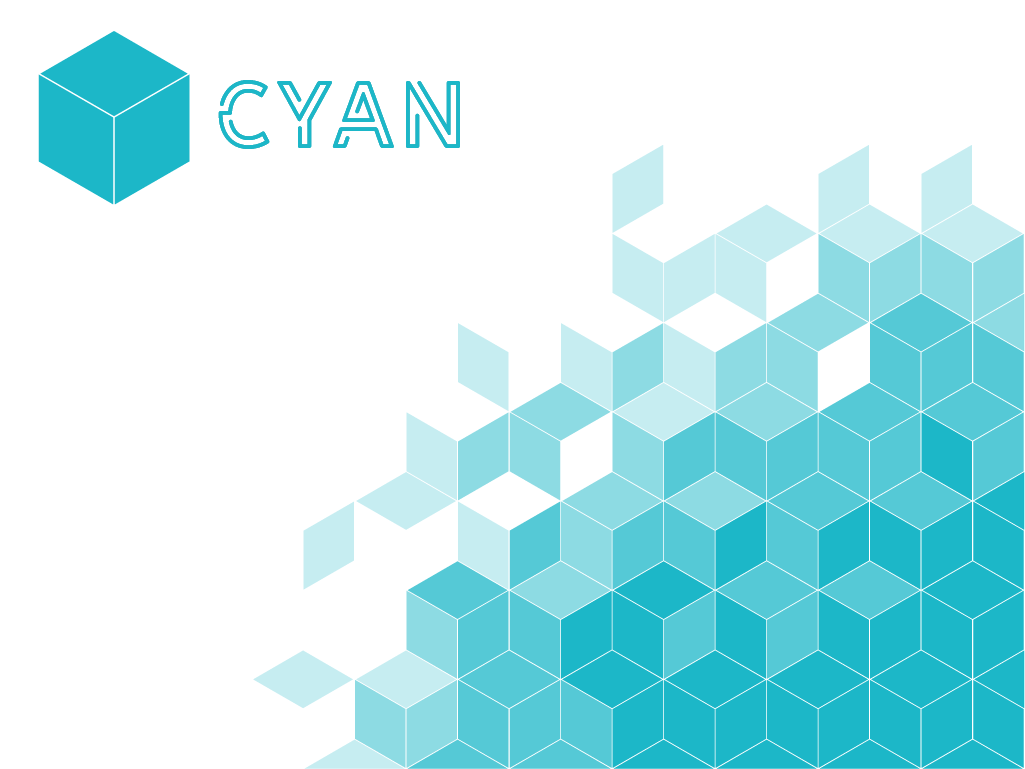
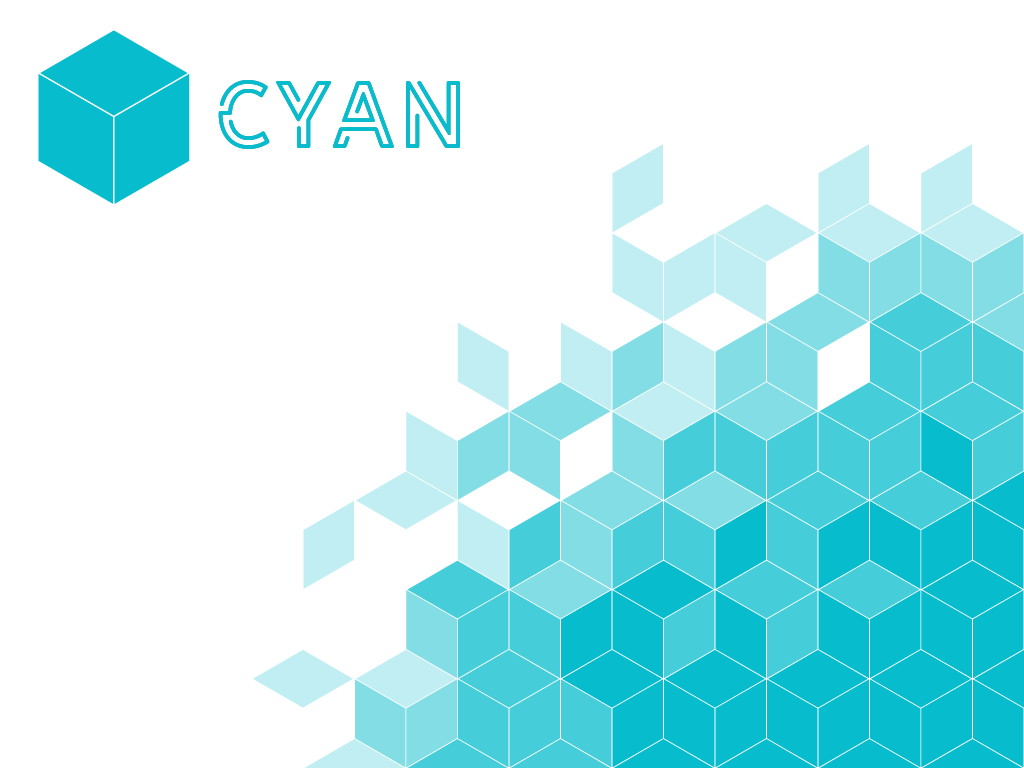
v.1.0.2

diff --git a/de.leonmarcelhd.colorful.teamspeak/TeamSpeak.css b/de.leonmarcelhd.colorful.teamspeak/TeamSpeak.css
@@ -1,35 +1,18 @@
-
-:root { /* custom value*/
-    /* accent color in hsl used to compute shades automatically */
-    /* default: 36, 94%, 48% */
-    --hue: 36;
-    --saturation: 94%;
-    --lightness: 48%;
-}
-
-:root { /* theme custom values */
-    --lightness-dark: calc(var(--lightness) - 8%);
-    --lightness-really-dark: calc(var(--lightness) - 30%);
-    --custom-color-light-grey: #2b3346;
-    --custom-color-dark-grey: #1c2538;
+:root {
     --custom-color-accent-really-dark: #2b2b2b;
-    --custom-color-off-white: #e0e0e0;
-    --custom-color-accent-light: #1488FA;
-    --custom-color-accent-dark: #8AC5FC;
-    --custom-color-slider1: #16bcfb;
-    --custom-color-slider2: #fa17ca;
+    --custom-color-accent-light: #16BCFB;
+    --custom-color-accent-dark: #1488FA;
+    --custom-color-slider1: #16BCFB;
+    --custom-color-slider2: #fb16c9;
     --custom-color-secondary-text: #bebebe;
-    --custom-value-scrollbar-width: 4px;
+    --custom-value-scrollbar-width: 6px;
     --custom-value-font: 'Roboto Condensed', sans-serif;
     --custom-value-font-weight: 300;
-    --custom-color-chat-bubble-code: #141922;
-    --custom-color-channel-commander-light: rgb(255, 205, 29);
-    --custom-color-channel-commander-dark: #8d7007;
+    --custom-color-channel-commander-light: #FB842E;
+    --default-tsv-tint: #16BCFB;
 }
 
-:root { /* override everywhere (bad practice ) */
-    --tsv-icon-tint: var(#158BBB) !important;
-    --tsv-icon-tint2: var(#158BBB) !important;
+:root {
     --tsv-tint: var(--custom-color-accent-light) !important;
     --tsv-tint2: var(--custom-color-accent-light) !important;
     --tsv-separation-border: none !important;
@@ -37,26 +20,81 @@
     --tsv-button-bg: var(--custom-color-accent-dark) !important;
     --tsv-button-hover-bg: var(--custom-color-accent-light) !important;
     --ts-menu-action-color: var(--custom-color-accent-dark) !important;
-    --tsv-icon-folder: var(#158BBB) !important;
     --tsv-chat-remote-bg: transparent !important;
     --tsv-chat-self-bg: transparent !important;
     --tsv-chat-deleted-bg: transparent !important;
-    --tsv-chat-remote-font-color: var(--custom-color-off-white) !important;
-    --tsv-chat-self-font-color: var(--custom-color-off-white) !important;
+    --tsv-chat-remote-font-color: var(--tsv-chat-self-font-color) !important;
+    --tsv-chat-self-font-color: var(--tsv-chat-self-font-color) !important;
     --tsv-chat-deleted-font-color: #DA3250 !important;
     --tsv-chat-link-color: var(--custom-color-accent-light) !important;
     --ts-chat-system-highlight-text-color: var(--custom-color-accent-light) !important;
-    --tsv-content-branding-fancy-bg: var(--tsv-content-branding-bg) !important;
     --tsv-highlight-color: var(--custom-color-accent-light) !important;
 }
+
+
+/* SIDEBAR HEADER */
+
+.tsv-highlight.tsv-header {
+    background: linear-gradient(to bottom, transparent 0%, var(--custom-color-accent-dark) 33%, var(--custom-color-accent-light) 100%);
+}
+
+.tsv-highlight.tsv-header:before {
+    background: linear-gradient(to bottom, rgba(0, 0, 0, 0.300) 80%, var(--custom-color-accent-light) 100%);
+}
+
+
+/* HEX */
+
+.tsv-background-canvas.small,
+.tsv-background-canvas.fancy {
+    background: radial-gradient(circle, var(--custom-color-accent-light), var(--custom-color-accent-dark));
+}
+
+
+/* MULTISELECT */
+
+.ts-chat-room-event-selected {
+    --tsv-tint2: var(--custom-color-accent-light);
+    --tsv-shaded-bg-selection: var(--custom-color-accent-dark);
+    opacity: 1.5;
+}
+
+.ts-chat-room-event-detailed.ts-chat-room-event-selected .ts-chat-message-attachment-container .ts-chat-message-attachment-inner {
+    background: var(--custom-color-accent-dark);
+    border-color: var(--custom-color-accent-light);
+}
+
+
+/* SERVER EVENTS */
+
+.ts-server-events-list li.ts-event-cyan,
+.ts-server-logs-list li.ts-event-cyan {
+    border-left-color: var(--default-tsv-tint);
+}
+
+
+/* ACTIVITY TRIANGLE */
+
+.tsv-has-scrollbar .tsv-item-active-indicator {
+    right: 6px;
+}
+
+
+/* CHECKBOX */
 
 .ts-checkbox-checkmark-path {
     stroke: var(--custom-color-accent-light) !important;
 }
 
+
+/* READ STATUS */
+
 :is(.ts-chat-room-event-detailed, .ts-chat-room-event-compact) :is(.ts-chat-message-status, .ts-chat-message-status-detailed) path {
     stroke: var(--custom-color-accent-light) !important;
 }
+
+
+/* SCROLLBAR */
 
 ::-webkit-scrollbar-track {
     background: inherit;
@@ -71,11 +109,15 @@
     background-color: var(--custom-color-accent-light) !important;
 }
 
-.tsv-icon-contact-status-favorite, .tsv-icon-chat-room-status-favorite {
+
+/* FAV ICON */
+
+.tsv-icon-contact-status-favorite,
+.tsv-icon-chat-room-status-favorite {
     z-index: 10;
     left: 13px !important;
     top: 4px !important;
-    stroke: rgba(0,0,0,.7);
+    stroke: rgba(0, 0, 0, .7);
     stroke-width: 1.3px;
     transform: scale(.61);
 }
@@ -86,109 +128,35 @@
     top: 15px !important;
 }
 
-.tsv-icon-contact-status-favorite rect, .tsv-icon-chat-room-status-favorite rect {
+.tsv-icon-contact-status-favorite rect,
+.tsv-icon-chat-room-status-favorite rect {
     display: none;
 }
 
-.tsv-icon-contact-status-favorite path, .tsv-icon-chat-room-status-favorite path {
-    /* d: path('M19.4,13.5 21.4,17.6 25.9,18.2 22.7,21.4 23.4,25.9 19.4,23.8 15.4,25.9 16.2,21.4 12.9,18.2 17.4,17.6z') !important; */
-    d: path('m 11.566084,-4e-7 3.002256,8.02905 8.563828,0.3742 L 16.423837,13.73968 18.714317,22 11.566084,17.26904 4.4178507,22 6.7083312,13.73968 0,8.4032496 l 8.5638277,-0.3742 z') !important;
+.tsv-icon-contact-status-favorite path,
+.tsv-icon-chat-room-status-favorite path {
+    d: path('m 11.6 0 l 3 8 l 8.6 0.4 L 16.4 13.7 L 18.7 22 L 11.6 17.3 L 4.4 22 L 6.7 13.7 L 0 8.4 l 8.6 -0.4 z') !important;
     fill: var(--custom-color-accent-light);
+    stroke-width: 2px;
+    stroke: transparent;
 }
 
-.ts-vad-bar-overlay {
-    background: initial !important;
-}
 
-.ts-slider-track {
-	border-radius: 5px !important;
-}
+/* SLIDER */
 
-.ts-slider .ts-slider-track .ts-slider-knob .ts-slider-knob-bubble {
-    white-space: nowrap;
-}
-
-.ts-slider-track[style] {
-    background: linear-gradient(90deg, var(--custom-color-slider1), var(--custom-color-slider2));
-}
-
-.ts-slider:not(.ts-slider-compact) .ts-slider-segment::after {
-	content: "";
-	position: absolute;
-	width: calc(100% + 4px);
-	height: calc(100% + 4px);
-	top: -2px;
-	left: -2px;
-	border-radius: 5px;
-	border: 2px solid var(--custom-color-light-grey);
-}
-
-.ts-slider:not(.ts-slider-compact) .ts-slider-segment {
-    border-radius: 0;
-    margin: 0px !important;
-    border: 2px solid var(--custom-color-light-grey);
-}
-
-.ts-slider-compact .ts-slider-segment {
-	border-radius: 0;
-	margin: 0px !important;
-	--border: 2px solid var(--custom-color-light-grey);
-	border-bottom: var(--border);
-	border-top: var(--border);
-}
-
-.ts-slider-compact .ts-slider-segment:first-child {
-	border-left: var(--border);
-}
-
-.ts-slider-compact .ts-slider-segment:last-child {
-	border-right: var(--border);
-}
-
-.ts-slider-segment:first-child {
-	border-top-left-radius: 5px !important;
-	border-bottom-left-radius: 5px !important;
-}
-
-.ts-slider-segment:last-child {
-	border-top-right-radius: 5px !important;
-	border-bottom-right-radius: 5px !important;
-}
-.ts-slider-segment-value {
-    border-radius: 0px !important;
+.ts-slider-segment-value.ts-slider-segment-value-on {
+    background: linear-gradient(90deg, var(--custom-color-slider1), var(--custom-color-slider1)) border-box !important;
 }
 
 .ts-slider-segment-value.ts-slider-segment-value-off {
-    background: var(--custom-color-light-grey) !important;
-    transform: scale(1);
-    opacity: .8;
-    border: 2px solid transparent;
+    background: linear-gradient(90deg, var(--custom-color-slider2), var(--custom-color-slider2)) border-box !important;
 }
 
-.ts-slider-segment-value.ts-slider-segment-value-on {
-    background: transparent !important;
-}
 
-.tsv-activity-detail .tsv-segmented-control {
-    --tsv-bg: var(--custom-color-light-grey);
-}
+/* CHAT INPUT */
 
 .ts-chat-input-container {
-    background: var(--custom-color-dark-grey) !important;
     border: none !important;
-}
-
-.ts-chat-input-container-content {
-    --tsv-bg: var(--custom-color-dark-grey);
-}
-
-.tsv-activity-primary .ts-chat-input-container {
-    background: var(--custom-color-dark-grey) !important;
-}
-
-.tsv-activity-primary .ts-chat-input-container-content {
-    --tsv-bg: var(--custom-color-dark-grey);
-    --tsv-shaded-bg: var(--custom-color-dark-grey);
 }
 
 .ts-chat-input-container:is(:hover, .focus)::after {
@@ -199,7 +167,14 @@
     box-shadow: inset 0 0 0 1px var(--custom-color-accent-light);
     pointer-events: none;
     z-index: 20;
-    border-radius: var(--tsv-border-radius);
+    border-radius: var(--tsv-border-radius) !important;
+}
+
+
+/* BUBBLES */
+
+.ts-chat-room-event-bubble.self-mention {
+    color: var(--tsv-chat-mention-bg);
 }
 
 .ts-chat-room-event-detailed .ts-chat-room-event-bubble.self-mention {
@@ -207,33 +182,36 @@
 }
 
 .ts-chat-room-event-detailed .ts-chat-room-event-bubble.self-mention::before {
-    content: none;
+    opacity: 0;
 }
 
-.ts-chat-room-event-bubble.self-mention {
-    color: var(--tsv-chat-mention-bg);
+.ts-parsed-text-content .spoiler:not([visible]) {
+    background-color: #ACADB1;
 }
+
+
+/* SYSTEM MESSAGE */
 
 .ts-chat-message-system-body {
     --ts-chat-system-message-color: #dfdfdf0c;
 }
 
-div:not(.channel-commander) > div > .tsv-icon-client-talking circle {
+
+/* CHANNEL COMMANDER */
+
+.tsv-icon-client-talking circle {
     fill: var(--custom-color-accent-light) !important;
 }
 
-div:not(.channel-commander) > div > .tsv-icon-client-normal circle, div:not(.channel-commander) > div > .tsv-icon-client-voiceless circle {
+div:not(.channel-commander)>div>.tsv-icon-client-normal circle,
+div:not(.channel-commander)>div>.tsv-icon-client-voiceless circle {
     fill: var(--custom-color-accent-really-dark) !important;
 }
 
-div.channel-commander > div > .tsv-icon-client-talking circle {
+.channel-commander :is(.tsv-icon-client-talking) circle {
     fill: var(--custom-color-channel-commander-light) !important;
 }
 
-div.channel-commander > div > :is(.tsv-icon-client-normal, .tsv-icon-client-voiceless) circle {
-    fill: var(--custom-color-channel-commander-dark) !important;
-}
-
-div.channel-commander ellipse {
-    --tsv-icon-tint: var(--custom-color-channel-commander-dark) !important;
+div.channel-commander>div> :is(.tsv-icon-client-normal, .tsv-icon-client-voiceless) circle {
+    fill: var(--custom-color-accent-light) !important;
 }

diff --git a/de.leonmarcelhd.colorful.teamspeak/DarkRed.css b/de.leonmarcelhd.colorful.teamspeak/DarkRed.css
@@ -1,8 +1,8 @@
 @import url(TeamSpeak.css);
 
 :root {
-    --custom-color-accent-light: #c93c37;
-    --custom-color-accent-dark: #992521;
-    --custom-color-slider1: #c93c37;
+    --custom-color-accent-light: #e4052e;
+    --custom-color-accent-dark: #99031e;
+    --custom-color-slider1: #e4052e;
     --custom-color-slider2: #cf534f;
 }

diff --git a/de.leonmarcelhd.colorful.teamspeak/DarkOrange.css b/de.leonmarcelhd.colorful.teamspeak/DarkOrange.css
@@ -2,7 +2,7 @@
 
 :root {
     --custom-color-accent-light: #F74515;
-    --custom-color-accent-dark: #c23913;
+    --custom-color-accent-dark: #b1300d;
     --custom-color-slider1: #F74515;
     --custom-color-slider2: #ff9173;
 }

diff --git a/de.leonmarcelhd.colorful.teamspeak/Orange.css b/de.leonmarcelhd.colorful.teamspeak/Orange.css
@@ -2,7 +2,7 @@
 
 :root {
     --custom-color-accent-light: #f7ad00;
-    --custom-color-accent-dark: #b88100;
+    --custom-color-accent-dark: #aa7802;
     --custom-color-slider1: #f7ad00;
     --custom-color-slider2: #ffc778;
 }

diff --git a/de.leonmarcelhd.colorful.teamspeak/Red.css b/de.leonmarcelhd.colorful.teamspeak/Red.css
@@ -2,7 +2,7 @@
 
 :root {
     --custom-color-accent-light: #fa213e;
-    --custom-color-accent-dark: #a31e37;
+    --custom-color-accent-dark: #921b31;
     --custom-color-slider1: #fa213e;
     --custom-color-slider2: #e47589;
 }
